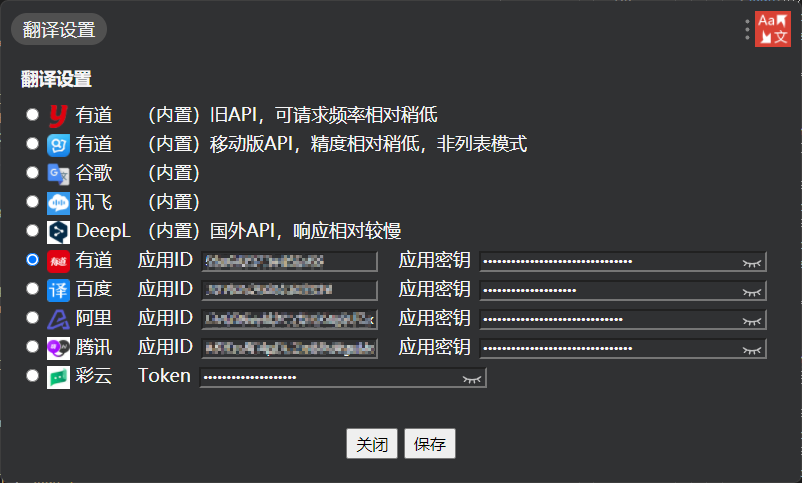
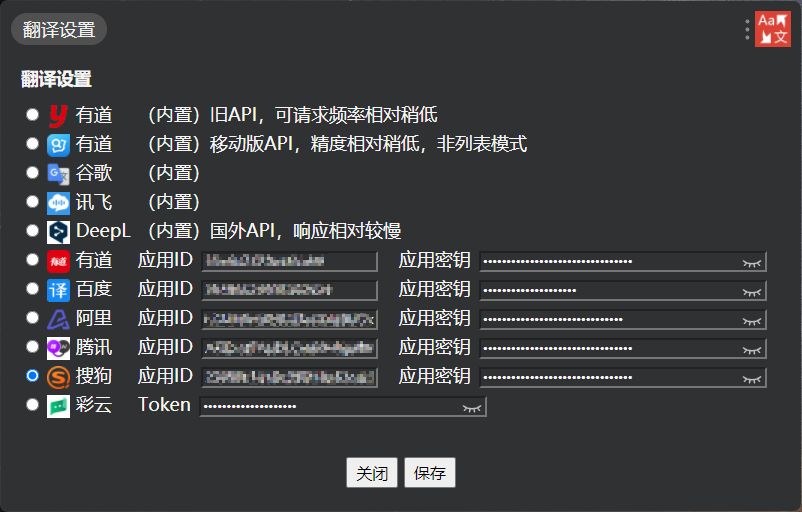
Add Sogou API

diff --git a/assets/js/index.js b/assets/js/index.js
@@ -30,8 +30,9 @@ const versionWhiteList = [
   "3.0.6",
   "3.0.7",
   "3.0.8",
+  "3.0.9",
 ];
-const version = "3.0.8";
+const version = "3.0.9";
 
 utools.onPluginReady(() => {
   utools.setExpendHeight(0);
@@ -65,7 +66,7 @@ utools.onPluginReady(() => {
     1.添加多API支持，可以随意切换配置API；
     2.添加列表模式，完美模拟原生列表模式，支持点击、回车、快捷键选中复制；
     3.保留旧版页面模式，清晰查看翻译结果；
-    4.新的有道API、百度API、阿里API、腾讯API和彩云小译API，需要自行到对应的开发者平台官网申请应用ID和密钥；
+    4.新的有道API、百度API、阿里API、腾讯API、搜狗API和彩云小译API，需要自行到对应的开发者平台官网申请应用ID和密钥；
     5.内置有道移动版API为非列表模式，其他都为列表模式；
     6.内置有道旧API为有道官方已弃用API，可免费使用。但请求频率太高，容易被暂时封禁；
     7.内置有道移动版API为手机网页版解析而来，此版API原生官方支持精度相对较低，对查询精准度要求较高者可考虑使用其他API。`,
@@ -138,7 +139,8 @@ async function switchApi(word) {
     option == Object.keys(options)[7] ||
     option == Object.keys(options)[8] ||
     option == Object.keys(options)[9] ||
-    option == Object.keys(options)[10]
+    option == Object.keys(options)[10] ||
+    option == Object.keys(options)[11]
   ) {
     $("#page").addClass("hide");
     $("#setting").addClass("hide");
@@ -150,16 +152,16 @@ async function switchApi(word) {
         data = await lookupYouDaoOld(word);
         break;
       case Object.keys(options)[2]:
-        data = await lookUpYouDaoWeb(word);
+        data = await lookupYouDaoWeb(word);
         break;
       case Object.keys(options)[3]:
-        data = await lookUpGoogle(word);
+        data = await lookupGoogle(word);
         break;
       case Object.keys(options)[4]:
-        data = await lookUpXunFei(word);
+        data = await lookupXunFei(word);
         break;
       case Object.keys(options)[5]:
-        data = await lookUpDeepL(word);
+        data = await lookupDeepL(word);
         break;
       case Object.keys(options)[6]:
         data = await lookupYouDao(word);
@@ -171,10 +173,13 @@ async function switchApi(word) {
         data = await lookupAliYun(word);
         break;
       case Object.keys(options)[9]:
-        data = await lookUpTencent(word);
+        data = await lookupTencent(word);
         break;
       case Object.keys(options)[10]:
-        data = await lookUpCaiYun(word);
+        data = await lookupSoGou(word);
+        break;
+      case Object.keys(options)[11]:
+        data = await lookupCaiYun(word);
         break;
       default:
         break;

diff --git a/assets/js/setting.js b/assets/js/setting.js
@@ -40,6 +40,10 @@ const options = {
     name: "腾讯",
     api: "tmt.tencentcloudapi.com",
   },
+  soGou: {
+    name: "搜狗",
+    api: "http://fanyi.sogou.com/reventondc/api/sogouTranslate",
+  },
   caiYun: {
     name: "彩云小译",
     api: "http://api.interpreter.caiyunai.com/v1/translator",
@@ -47,7 +51,7 @@ const options = {
 };
 
 // 设置窗口的高度。
-const settingHeight = 135 + 29 * 10;
+const settingHeight = 135 + 29 * 11;
 
 const errMsgEmptyApp = "应用ID或密钥不能为空！";
 
@@ -112,6 +116,16 @@ function loadConfiguration() {
     document.getElementById("tencentAppSecret").value = tencentAppSecret;
   }
 
+  let soGouAppId = utools.dbStorage.getItem("soGouAppId");
+  if (soGouAppId) {
+    document.getElementById("soGouAppId").value = soGouAppId;
+  }
+
+  let soGouAppSecret = utools.dbStorage.getItem("soGouAppSecret");
+  if (soGouAppSecret) {
+    document.getElementById("soGouAppSecret").value = soGouAppSecret;
+  }
+
   let caiYunToken = utools.dbStorage.getItem("caiYunToken");
   if (caiYunToken) {
     document.getElementById("caiYunToken").value = caiYunToken;
@@ -134,6 +148,8 @@ function saveConfiguration() {
   const aliYunAppSecret = document.getElementById("aliYunAppSecret").value;
   const tencentAppId = document.getElementById("tencentAppId").value;
   const tencentAppSecret = document.getElementById("tencentAppSecret").value;
+  const soGouAppId = document.getElementById("soGouAppId").value;
+  const soGouAppSecret = document.getElementById("soGouAppSecret").value;
   const caiYunToken = document.getElementById("caiYunToken").value;
   let saveFailed = false;
   switch (option) {
@@ -165,6 +181,13 @@ function saveConfiguration() {
         saveFailed = true;
       }
       break;
+    case "soGou":
+      if (isBlank(soGouAppId) || isBlank(soGouAppSecret)) {
+        $("#msg").text(errMsgEmptyApp);
+        document.getElementById("soGouAppId").focus();
+        saveFailed = true;
+      }
+      break;
     case "caiYun":
       if (isBlank(caiYunToken)) {
         $("#msg").text("Token不能为空！");
@@ -187,6 +210,8 @@ function saveConfiguration() {
   utools.dbStorage.setItem("aliYunAppSecret", aliYunAppSecret);
   utools.dbStorage.setItem("tencentAppId", tencentAppId);
   utools.dbStorage.setItem("tencentAppSecret", tencentAppSecret);
+  utools.dbStorage.setItem("soGouAppId", soGouAppId);
+  utools.dbStorage.setItem("soGouAppSecret", soGouAppSecret);
   utools.dbStorage.setItem("caiYunToken", caiYunToken);
   hideSetting();
   utools.showNotification(`切换为${options[option]["name"]}成功！`);

diff --git a/assets/js/soGou.js b/assets/js/soGou.js
@@ -1,0 +1,66 @@
+const errorCodeMsgSoGou = {
+  0: "成功",
+  1001: "不支持的语言类型",
+  1002: "文本过长",
+  1003: "无效PID",
+  1004: "试用Pid限额已满",
+  10041: "pid小语种限额已满",
+  1005: "Pid请求流量过高",
+  1007: "随机数不存在",
+  1008: "签名不存在",
+  1009: "签名不正确",
+  10010: "文本不存在",
+  1050: "内部服务错误",
+  1101: "账户余额不足",
+  1102: "接口请求过快",
+};
+async function lookupSoGou(word) {
+  let data = [];
+  const api = options.soGou.api;
+  let appId = utools.dbStorage.getItem("soGouAppId");
+  let appSecret = utools.dbStorage.getItem("soGouAppSecret");
+  if (!appId || !appSecret) {
+    data.push({
+      title: errTitle,
+      description: errMsgEmptyConf,
+    });
+    return data;
+  }
+  const salt = Math.floor(Date.now() / 1000);
+  const sign = window.MD5(appId + word + salt + appSecret);
+  const from = "auto";
+  const to = isChinese(word) ? "en" : "zh-CHS";
+  const payload =
+    "from=" +
+    from +
+    "&to=" +
+    to +
+    "&pid=" +
+    appId +
+    "&q=" +
+    encodeURIComponent(word) +
+    "&sign=" +
+    sign +
+    "&salt=" +
+    salt;
+
+  const response = await post(api, payload, formHeaders);
+  const errorCode = response?.errorCode;
+  if (errorCode == 0) {
+    const tran = response.translation;
+    const phoneticEn = getPhoneticEn(word);
+    const phoneticUs = getPhoneticUs(word);
+    let dataTitle = `<span class="translation">${tran}</span><span>英</span>${phoneticEn}<span>美</span>${phoneticUs}`;
+    data.push({
+      title: dataTitle,
+      description: "基本释义",
+    });
+  } else {
+    let errMsg = errorCodeMsgSoGou[errorCode];
+    data.push({
+      title: errTitle,
+      description: errMsg,
+    });
+  }
+  return data;
+}

diff --git a/index.html b/index.html
@@ -129,6 +129,18 @@
         </div>
         <div class="service">
           <label>
+            <input name="service" type="radio" value="soGou" />
+            <img src="./assets//images/icon/soGou.png" />
+            <span>搜狗</span>
+          </label>
+          <span>应用ID</span>
+          <input id="soGouAppId" name="appId" type="input" value="" />
+          <span>应用密钥</span>
+          <input id="soGouAppSecret" class="secret" name="appSecret" type="password" value="" />
+          <img class="eye closed" />
+        </div>
+        <div class="service">
+          <label>
             <input name="service" type="radio" value="caiYun" />
             <img src="./assets//images/icon/caiYun.jpg" />
             <span>彩云</span>
@@ -150,6 +162,7 @@
     <script src="assets/js/youDaoWap.js"></script>
     <script src="assets/js/google.js"></script>
     <script src="assets/js/tencent.js"></script>
+    <script src="assets/js/soGou.js"></script>
     <script src="assets/js/youDao.js"></script>
     <script src="assets/js/baiDu.js"></script>
     <script src="assets/js/aliYun.js"></script>

diff --git a/assets/js/tencent.js b/assets/js/tencent.js
@@ -55,7 +55,7 @@ const errorCodeMsgTencent = {
   "UnsupportedOperation.UnsupportedLanguage": "不支持的语言，请参照语言列表。",
   "UnsupportedOperation.UnsupportedSourceLanguage": "不支持的源语言，请参照语言列表。",
 };
-async function lookUpTencent(word) {
+async function lookupTencent(word) {
   let data = [];
 
   const endpoint = options.tencent.api;

diff --git a/assets/js/caiYun.js b/assets/js/caiYun.js
@@ -1,7 +1,7 @@
 const errorCodeMsgCaiYun = {
   "API rate limit exceeded": "API请求太过频繁，请稍后再试",
 };
-async function lookUpCaiYun(word) {
+async function lookupCaiYun(word) {
   let data = [];
   const api = options.caiYun.api;
   const token = utools.dbStorage.getItem("caiYunToken");

diff --git a/assets/js/deepL.js b/assets/js/deepL.js
@@ -1,5 +1,5 @@
 let requestId = 57280004;
-async function lookUpDeepL(word) {
+async function lookupDeepL(word) {
   let data = [];
   const api = options.deepL.api;
   let timestamp = new Date().getTime() - 3000;

diff --git a/assets/js/google.js b/assets/js/google.js
@@ -1,4 +1,4 @@
-async function lookUpGoogle(word) {
+async function lookupGoogle(word) {
   let data = [];
   const api = options.google.api;
   const tl = isChinese(word) ? "en" : "zh-CN";

diff --git a/assets/js/youDaoWeb.js b/assets/js/youDaoWeb.js
@@ -1,4 +1,4 @@
-async function lookUpYouDaoWeb(word) {
+async function lookupYouDaoWeb(word) {
   let data = [];
   const api = options.youDaoWeb.api;
 

diff --git a/assets/js/xunFei.js b/assets/js/xunFei.js
@@ -1,4 +1,4 @@
-async function lookUpXunFei(word) {
+async function lookupXunFei(word) {
   let data = [];
   const api = options.xunFei.api;
 

diff --git a/README.md b/README.md
@@ -115,6 +115,14 @@ uTools 插件 - 翻译
 
   需要到[腾讯云机器翻译TMT](https://cloud.tencent.com/product/tmt)申请获取应用ID和应用密钥。
 
+- 搜狗翻译
+
+  <http://fanyi.sogou.com/reventondc/api/sogouTranslate>
+
+  翻译内容较少，仅有基本翻译。
+
+  需要到[搜狗智深引擎](https://deepi.sogou.com)申请获取应用ID和应用密钥。
+
 - 彩云小译
 
   <http://api.interpreter.caiyunai.com/v1/translator>
